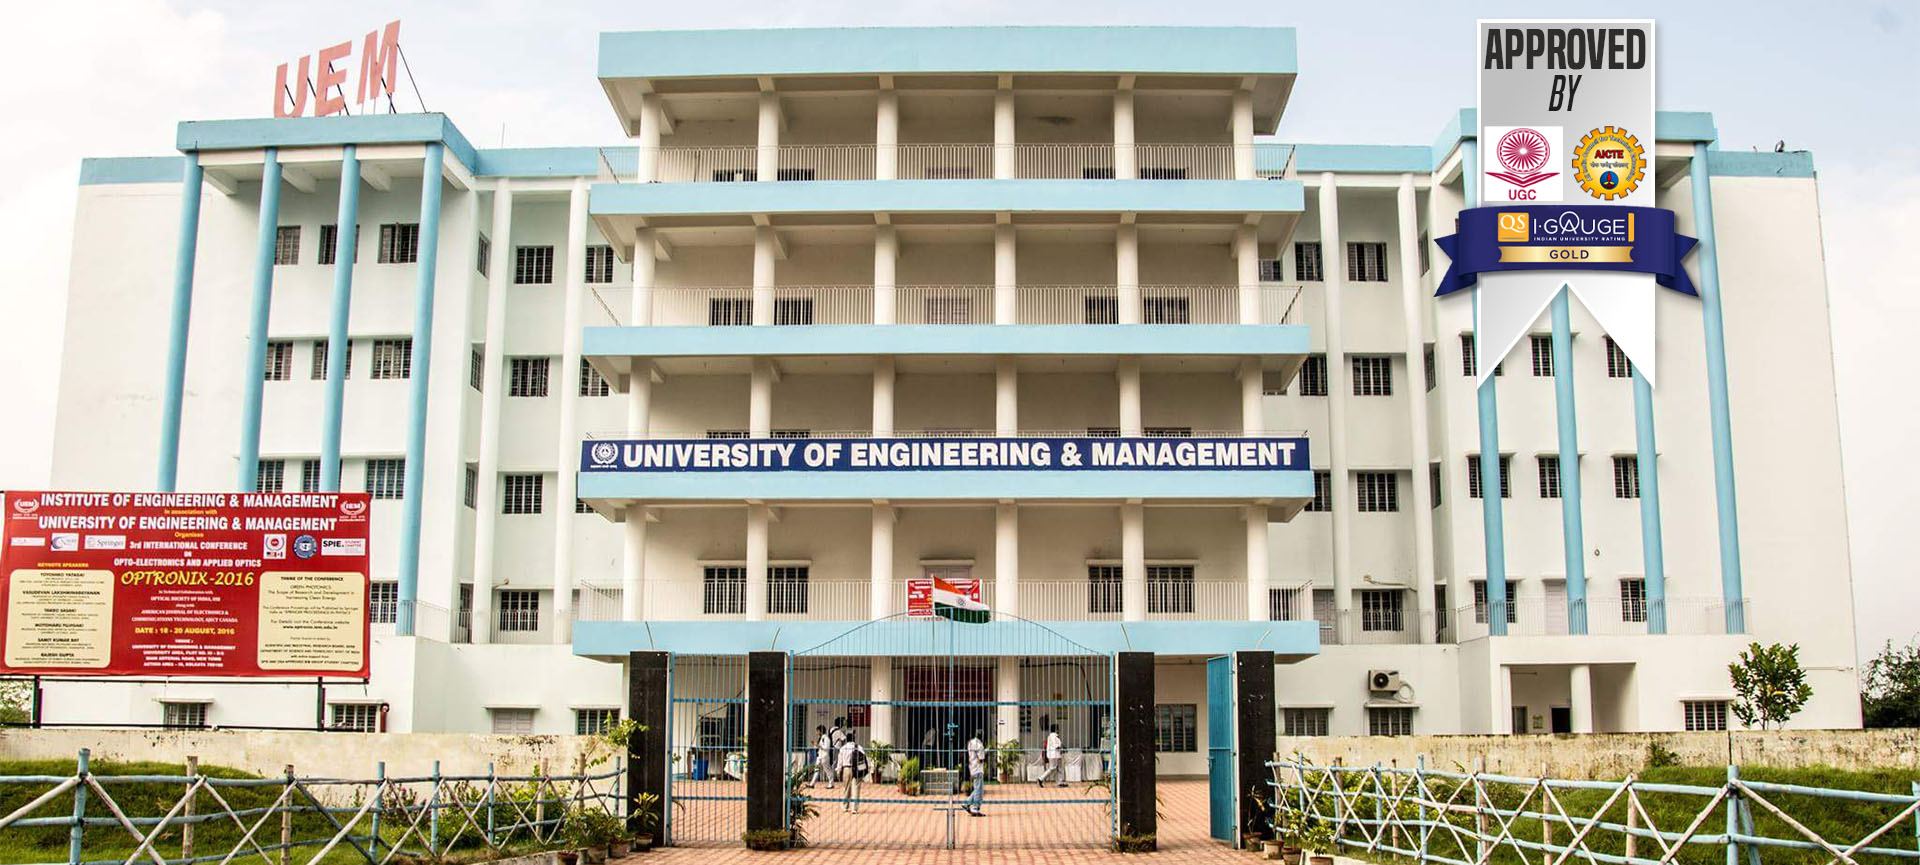
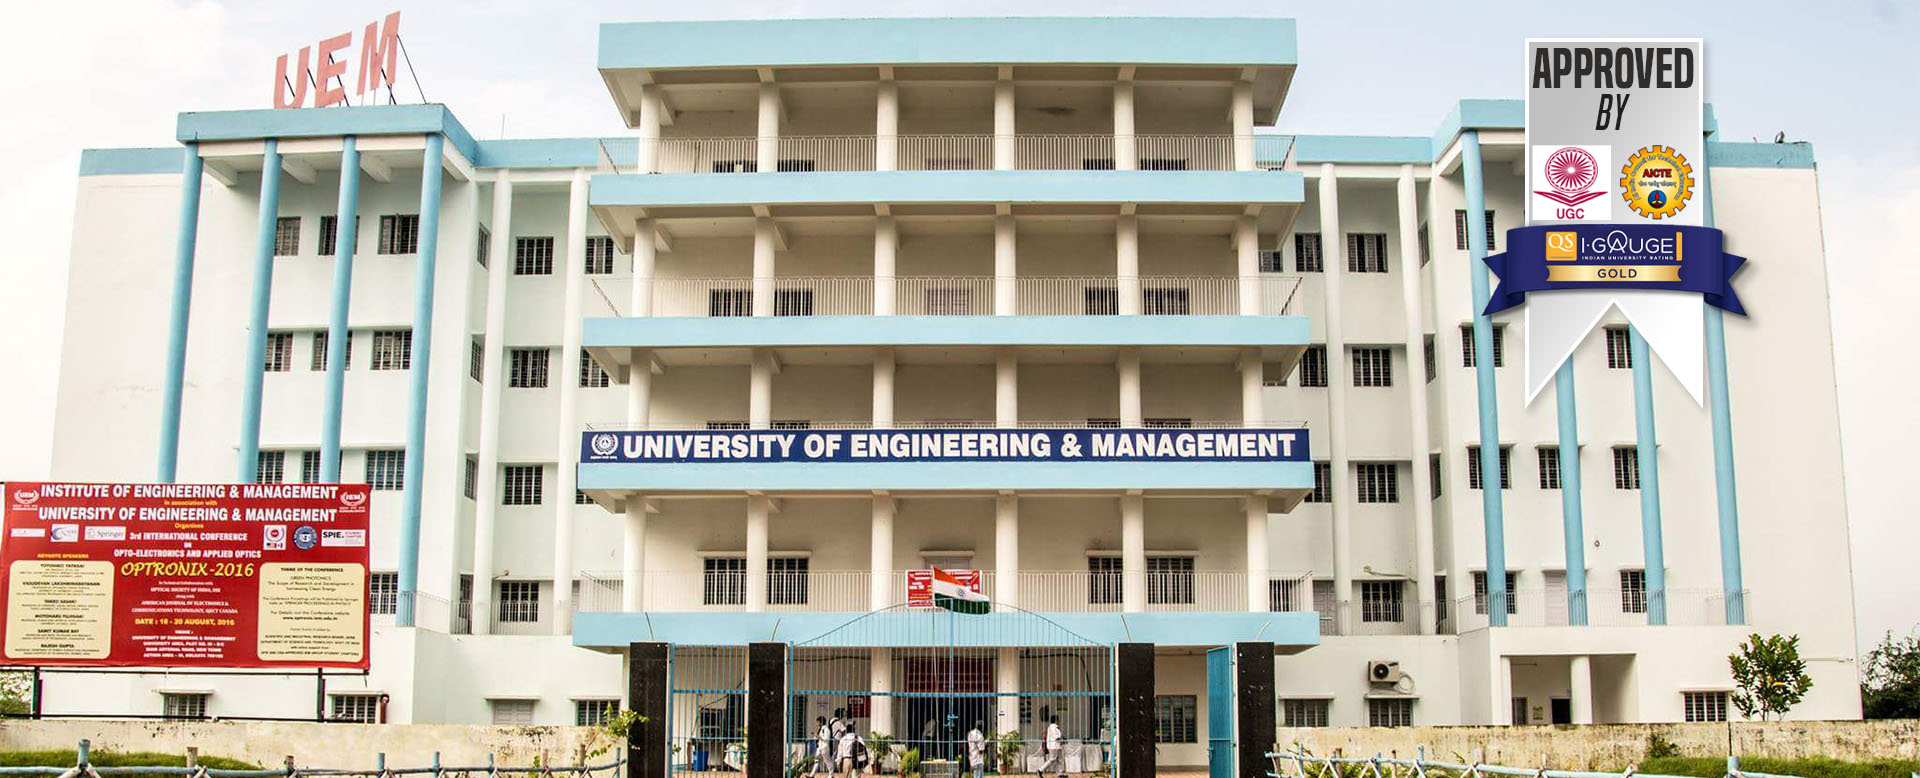
added hero section

diff --git a/css/styles.css b/css/styles.css
@@ -1,4 +1,5 @@
 @import url('https://fonts.googleapis.com/css2?family=Roboto:wght@300;400;500;700;900&display=swap');
+@import url('https://fonts.googleapis.com/css2?family=Merriweather:wght@300;400;700&display=swap');
 
 html {
   font-size: 62.5%;
@@ -46,23 +47,24 @@ html {
   padding: 0 11.2rem;
   background-color: #003882;
   display: flex;
-
+  border-bottom: solid 2px #fff;
 }
 
-.secondary-nav-link{
-    display: flex;
-    gap: 0.6rem;
-    align-items: center;
+.secondary-nav-link {
+  display: flex;
+  gap: 0.6rem;
+  align-items: center;
 }
 
-.secondary-nav-link img{
-    display: inline;
-    height: 1rem;
-    width: 1rem;
-    filter: invert(100%) sepia(0%) saturate(25%) hue-rotate(70deg) brightness(108%) contrast(108%);
+.secondary-nav-link img {
+  display: inline;
+  height: 1rem;
+  width: 1rem;
+  filter: invert(100%) sepia(0%) saturate(25%) hue-rotate(70deg)
+    brightness(108%) contrast(108%);
 }
 
-.secondary-nav-link:hover .dropdown-icon{
+.secondary-nav-link:hover .dropdown-icon {
   transform: rotate(180deg);
 }
 
@@ -83,3 +85,59 @@ html {
   background-color: #4776aa;
 }
 
+.section-hero {
+  position: relative;
+}
+
+.hero-overlay {
+  max-width: 70rem;
+  background-color: #ffcc33;
+  padding: 4.2rem 6rem;
+
+  background-image: url(/img/Homepage/alumni-hero-bg.png);
+  background-repeat: no-repeat;
+
+  transform: translate(-50%, -50%);
+
+  position: absolute;
+  top: 90%;
+  left: 30%;
+}
+
+.hero-overlay h1 {
+  font-size: 2.4rem;
+  color: #363230;
+  font-family: 'Merriweather', serif;
+  padding-bottom: 1.6rem;
+}
+
+.hero-overlay p {
+  font-size: 1.6rem;
+  color: #363230;
+}
+
+.learn-more-hero-icon {
+  height: 3.2rem;
+  filter: invert(16%) sepia(9%) saturate(453%) hue-rotate(335deg)
+    brightness(96%) contrast(87%);
+}
+
+.learn-more-hero:link,
+.learn-more-hero:visited {
+  color: #363230;
+  font-size: 1.8rem;
+  letter-spacing: 1.5px;
+  font-weight: 500;
+
+  display: inline-flex;
+  flex-shrink: 1;
+  align-items: center;
+  gap: 1.6rem;
+  text-decoration: none;
+  padding-top: 2.4rem;
+  border-bottom: 2px solid #ffcc33;
+}
+
+.learn-more-hero:hover, .learn-more-hero:active{
+  border-bottom: 2px solid #363230;
+}

diff --git a/index.html b/index.html
@@ -58,8 +58,27 @@
     </div>
 
     <main class="section-hero">
-      <img src="img/Homepage/campus.jpg" alt="">
-      <div class="hero"></div>
+      <img src="img/Homepage/campus-2.jpg" alt="" />
+      <div class="hero-overlay">
+        <h1>University of Engineering and Management, Kolkata</h1>
+        <p class="overlay-text">
+          University of Engineering & Management (UEM) aims to provide an
+          international ambience and exposure with innovative teaching
+          techniques and courses which are tailor-made (technical & soft skills)
+          for the job market giving the students the winning edge and
+          competitive advantage during placements.
+        </p>
+        <a class="learn-more-hero" href=""
+          >LEARN MORE<img
+            class="learn-more-hero-icon"
+            src="icons/right-arrow.svg"
+            alt=""
+        /></a>
+      </div>
     </main>
+
+    <!-- <section class="college-desc">
+      <h2 class="">Why UEMK?</h2>
+    </section> -->
   </body>
 </html>
